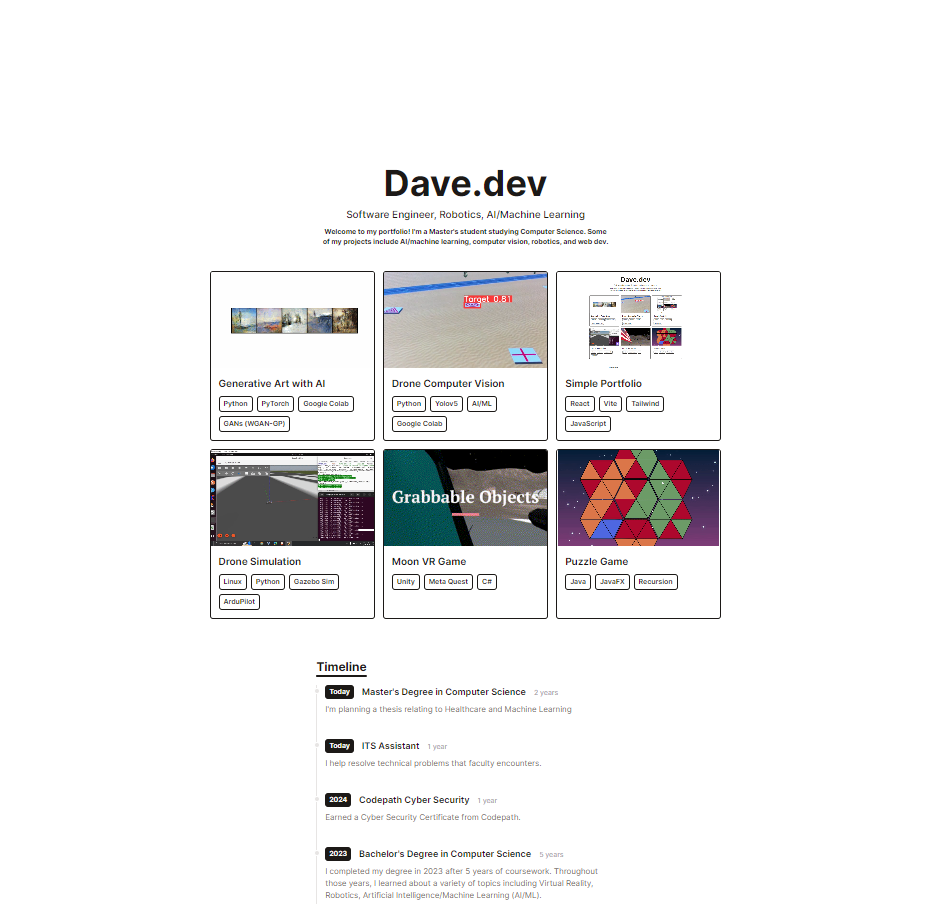
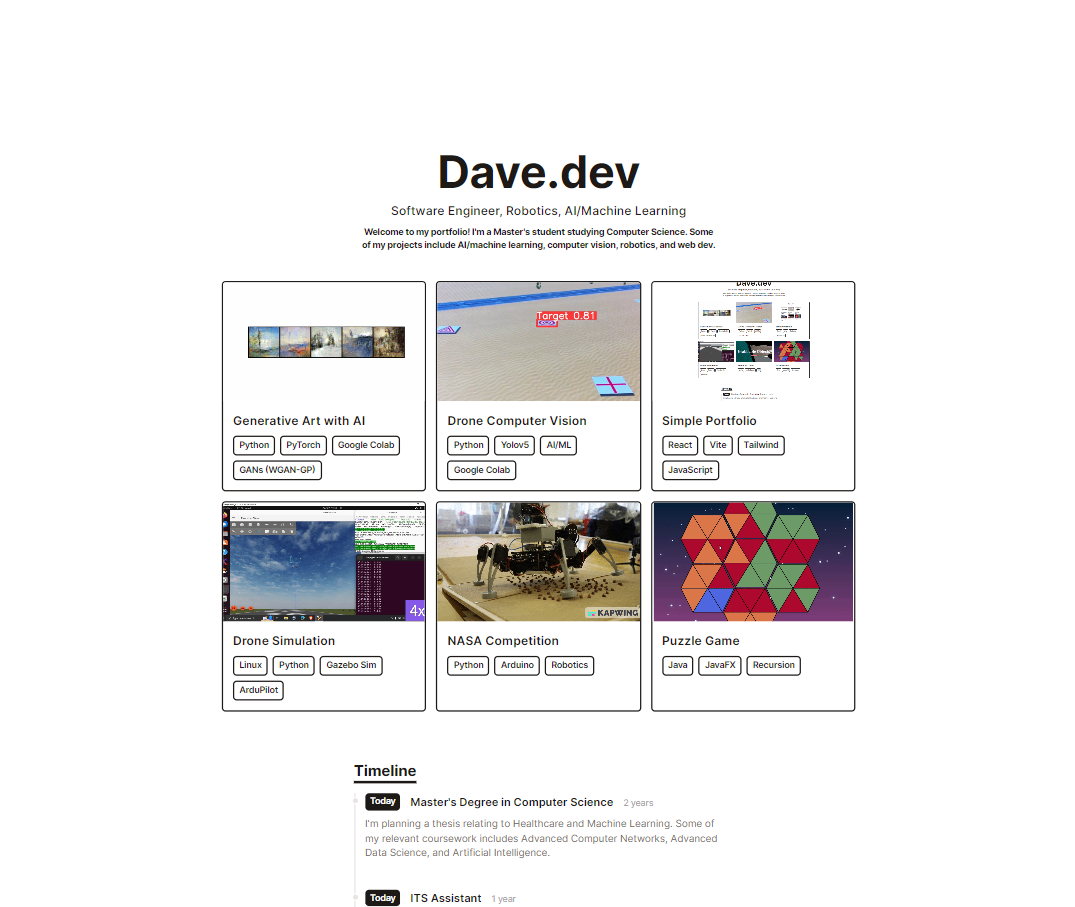
images display fixed

Changed region(s): [[0.1816, 0.1549, 0.8173, 1.0]]

diff --git a/src/data/portfolio.js b/src/data/portfolio.js
@@ -1,37 +1,37 @@
 export default [
   {
     title: 'Generative Art with AI',
-    imgUrl: '/public/assets/artificial-intelligence/generative-art/second-wgan-300-epoch.gif',
+    imgUrl: '/simple-portfolio/assets/artificial-intelligence/generative-art/second-wgan-300-epoch.gif',
     stack: ['Python', 'PyTorch', 'Google Colab', 'GANs (WGAN-GP)'],
     link: 'https://github.com/dnxv/Generative-Art',
   },
   {
     title: 'Drone Computer Vision',
-    imgUrl: '/assets/artificial-intelligence/yolov5/smaller-detection.png',
+    imgUrl: '/simple-portfolio/assets/artificial-intelligence/yolov5/smaller-detection.png',
     stack: ['Python', 'Yolov5', 'AI/ML', 'Google Colab'],
     link: 'https://davids-tutorials.gitbook.io/robotics/cv-yolov5',
   },
   {
     title: 'Simple Portfolio',
-    imgUrl: '/assets/web/web-two.png',
+    imgUrl: '/simple-portfolio/assets/web/web-two.png',
     stack: ['React', 'Vite', 'Tailwind', 'JavaScript'],
     link: 'https://dnxv.github.io/simple-portfolio/',
   },
   {
     title: 'Drone Simulation',
-    imgUrl: '/public/assets/robotics/drone/simulation.gif',
+    imgUrl: '/simple-portfolio/assets/robotics/drone/simulation.gif',
     stack: ['Linux', 'Python', 'Gazebo Sim', 'ArduPilot'],
     link: 'https://davids-tutorials.gitbook.io/robotics/virtual-machines-virtual-box',
   },
   {
     title: 'NASA Competition',
-    imgUrl: '/public/assets/robotics/spider/parker.gif',
+    imgUrl: '/simple-portfolio/assets/robotics/spider/parker.gif',
     stack: ['Python', 'Arduino', 'Robotics'],
     link: 'https://github.com/dwxv/NASA-MINDS-Hexapod.',
   },
   {
     title: 'Puzzle Game',
-    imgUrl: '/public/assets/games/puzzle.gif',
+    imgUrl: '/simple-portfolio/assets/games/puzzle.gif',
     stack: ['Java', 'JavaFX', 'Recursion'],
     link: 'https://github.com/dwxv/JavaFX-Puzzle-Recursion-',
   },

diff --git a/src/components/Intro.jsx b/src/components/Intro.jsx
@@ -2,7 +2,7 @@ import React from "react";
 
 function Intro() {
   return (
-    <div className="flex items-center 
+    <div className="mt-64 flex items-center 
     justify-center flex-col text-center
     pt-20 pb-6">
       
